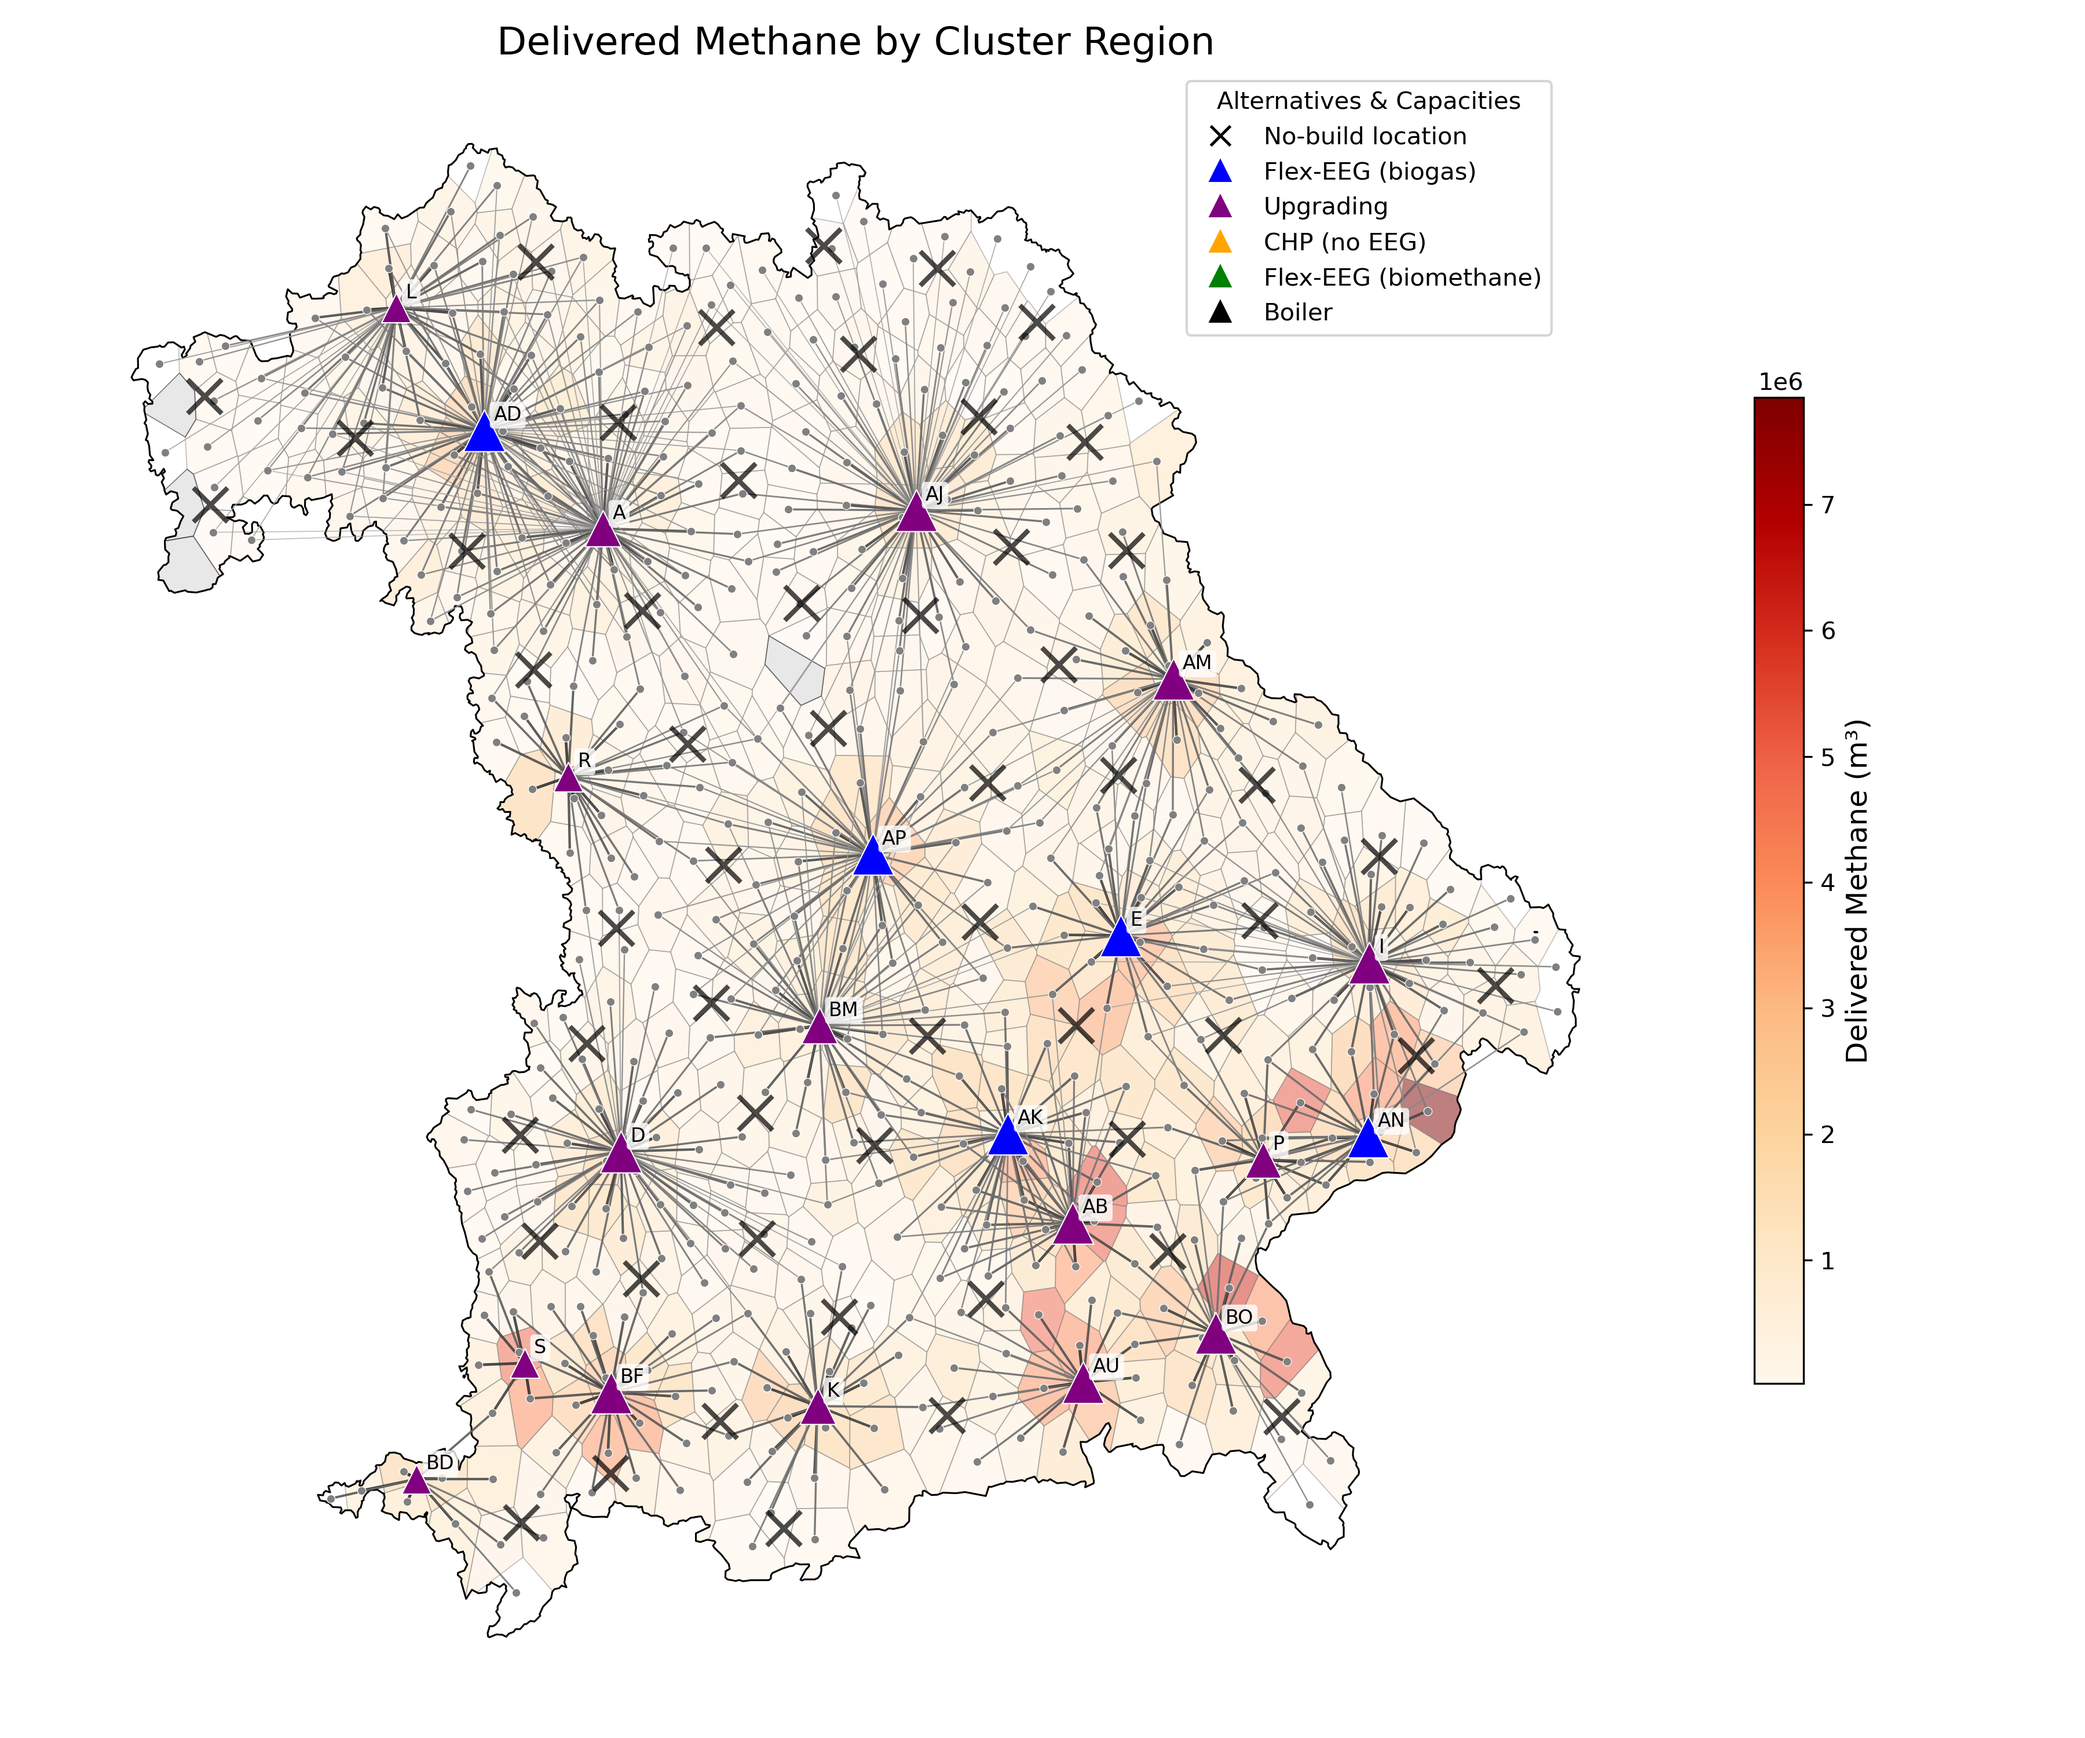
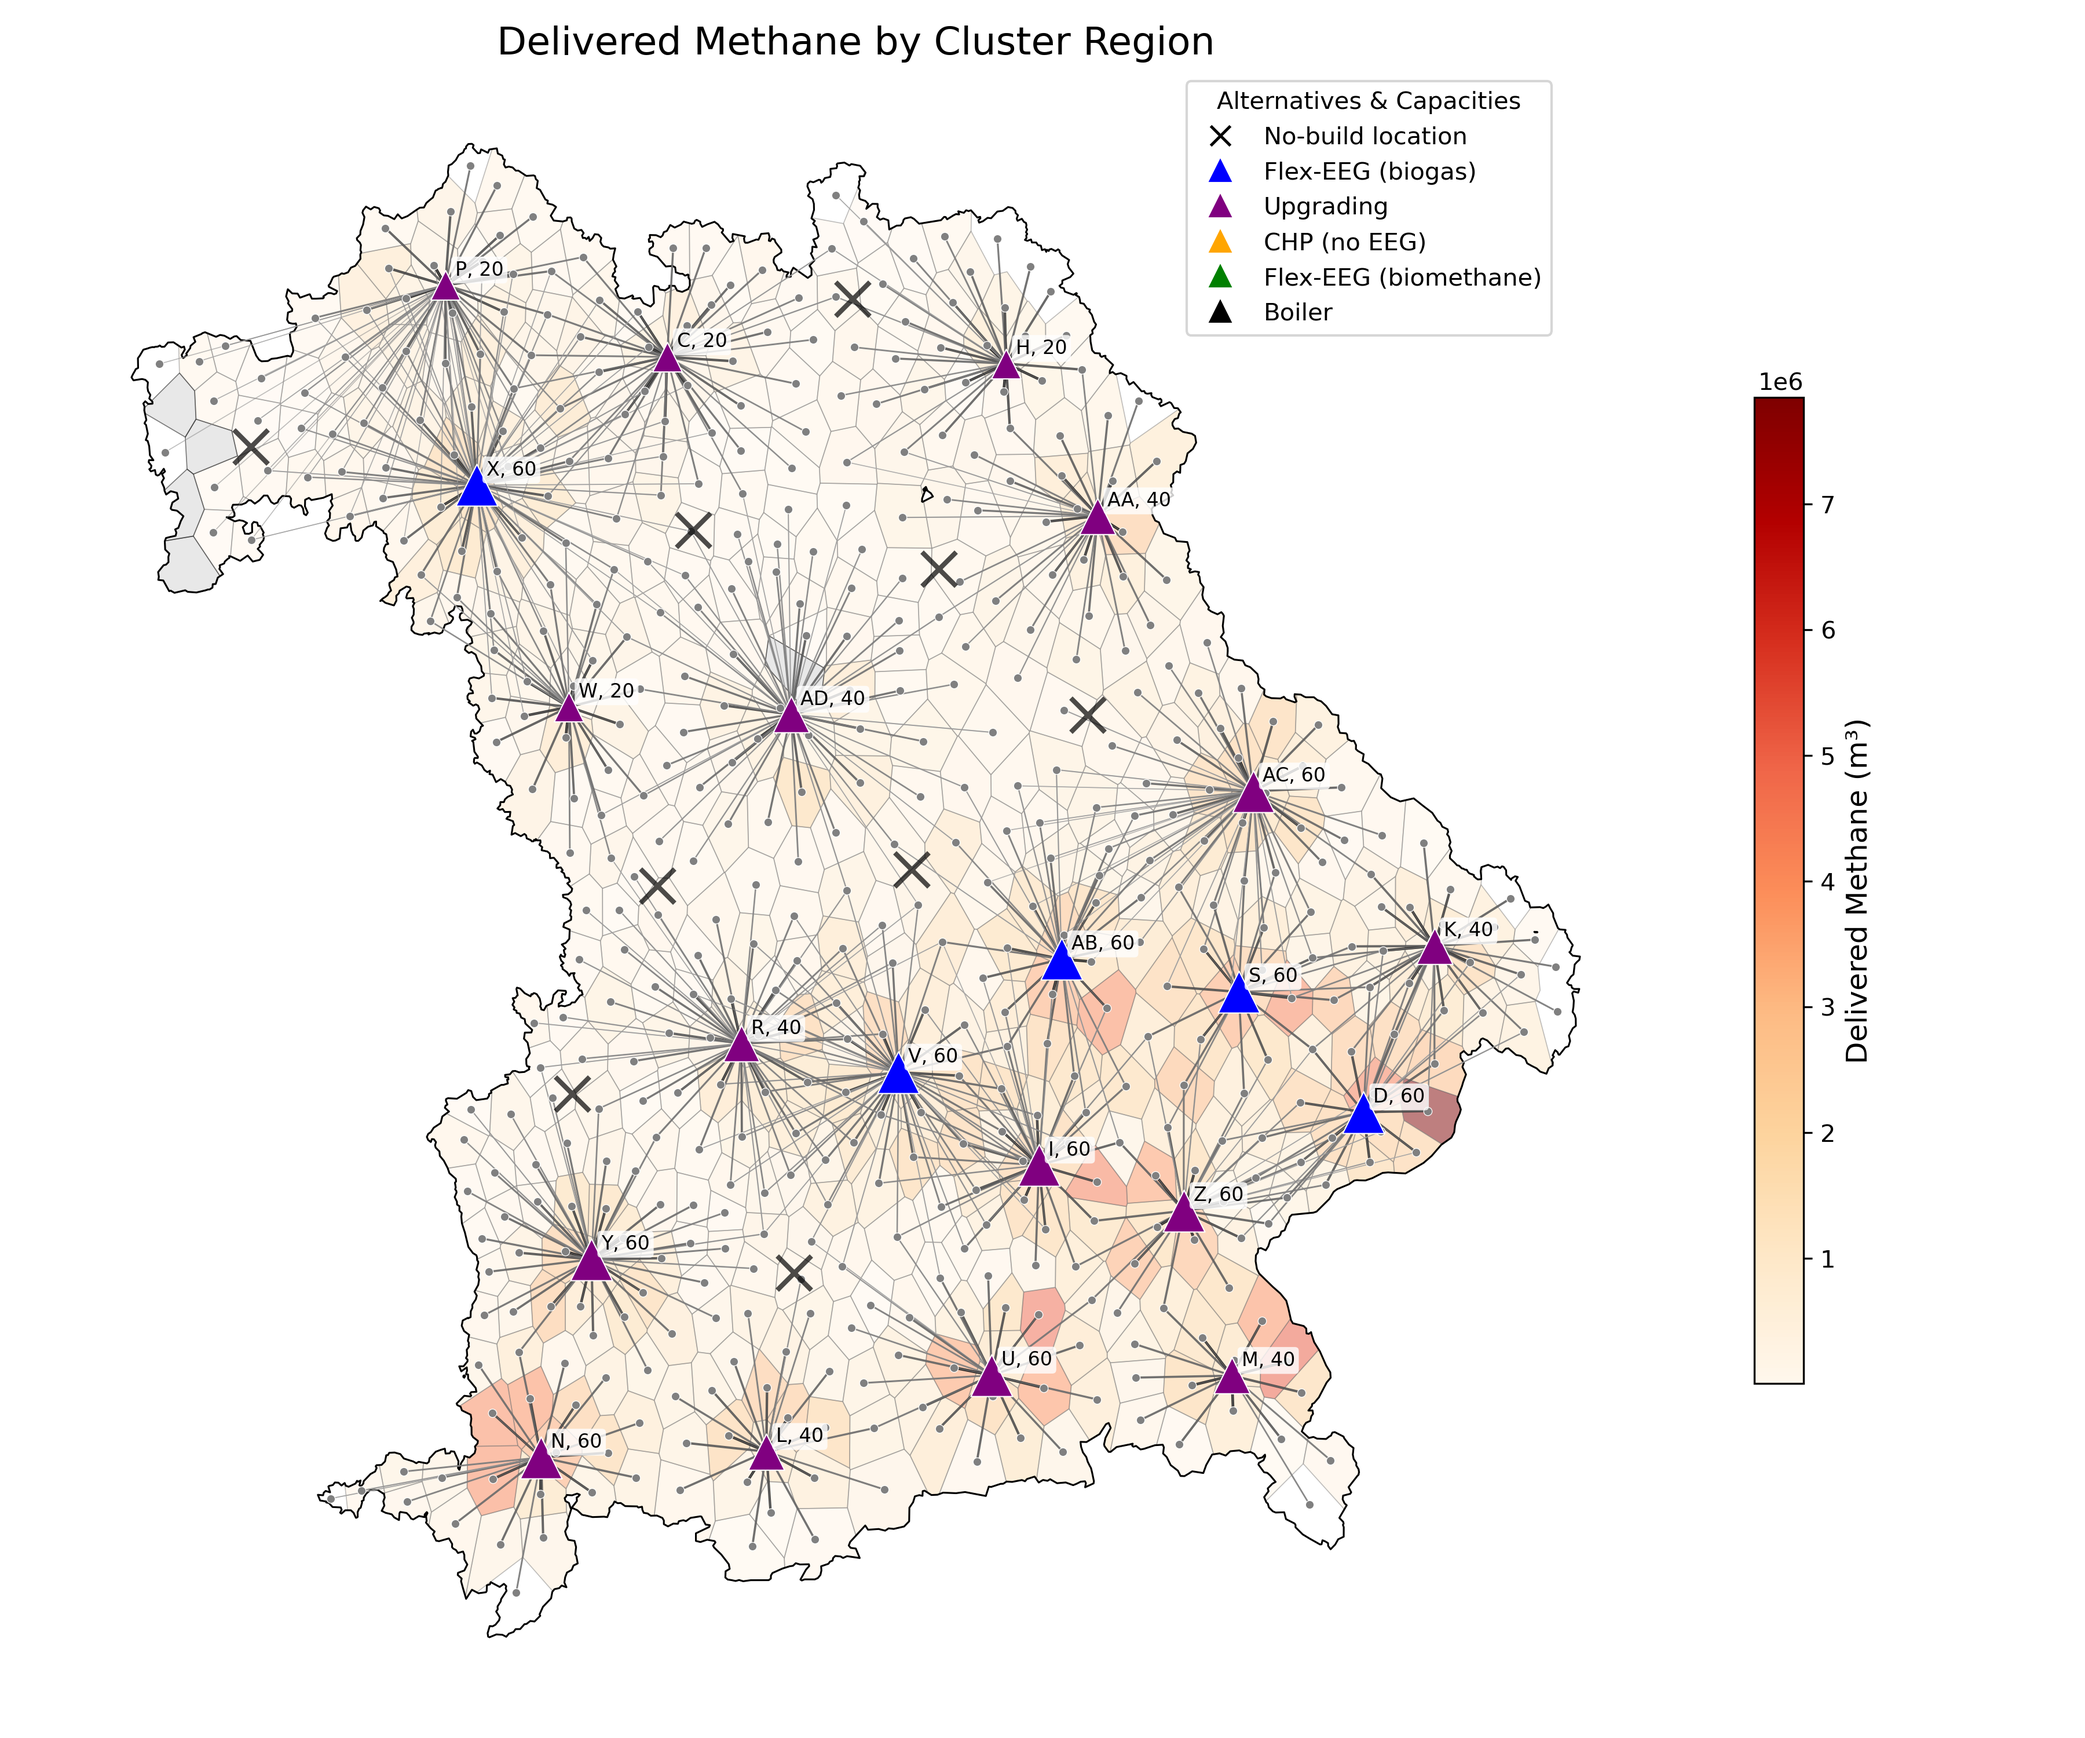
75

Changed region(s): [[0.0933, 0.124, 0.7467, 0.899]]

diff --git a/code/plots.py b/code/plots.py
@@ -14,12 +14,12 @@ import seaborn as sns
 
 BASE_DIR = "C:/Clone/Master/"
 FILES = {
-    "in_flow": os.path.join(BASE_DIR, "results/large_scale/75_runs/Output_in_flow_75_reopt.csv"),
+    "in_flow": os.path.join(BASE_DIR, "results/large_scale/30_runs/Flows_30_optimal.csv"),
     #"out_flow": os.path.join(BASE_DIR, "/Output_out_flow.csv"),
-    "financials": os.path.join(BASE_DIR,"results/large_scale/75_runs/Output_financials_75_reopt.csv"),
+    "financials": os.path.join(BASE_DIR,"results/large_scale/30_runs/Financials_30_optimal.csv"),
     #"feedstock": os.path.join(BASE_DIR, "processed_biomass_data.csv"),
     "feedstock": os.path.join(BASE_DIR, "aggregated_bavaria_supply_nodes.csv"),
-    "plant": os.path.join(BASE_DIR, "equally_spaced_locations_75.csv"),
+    "plant": os.path.join(BASE_DIR, "equally_spaced_locations_30.csv"),
     #"plant": os.path.join(BASE_DIR, "equally_space_locations_10.csv"),
     "yields": os.path.join(BASE_DIR, "Feedstock_yields.csv"),
     "bavaria_geojson": os.path.join(BASE_DIR, "bavaria_cluster_regions.geojson"),
@@ -242,9 +242,9 @@ def plot_methane_fraction(fin_df, system_methane_average):
         deviation = ((frac - system_methane_average) / system_methane_average) * 100
         ax.text(j, frac, f"{deviation:+.1f}%", fontsize=12, ha="center", 
                 va="bottom" if frac < system_methane_average else "top")
-    ax.set_xlabel("Plant Location")
-    ax.set_ylabel("Methane Fraction (N_CH4 / Omega)")
-    ax.set_title("Methane Fraction by Plant Location vs. System Average")
+    ax.set_xlabel("Plant Location", fontsize = 14)
+    ax.set_ylabel("Methane Fraction (N_CH4 / Omega)", fontsize = 14)
+    ax.set_title("Methane Fraction by Plant Location vs. System Average", fontsize = 14)
     ax.legend()
     plt.xticks(rotation=45, ha="right")
     min_frac = min(methane_fractions + [system_methane_average]) * 0.95
@@ -291,12 +291,19 @@ def plot_feedstock_stacked_chart(in_flow_df, feedstock_types, color_map):
                color=c)    # <-- HERE
         bottoms += pivot_df[feedstock].values
 
-    ax.set_xlabel("Plant Location", fontsize =12)
-    ax.set_ylabel("Percentage of Feedstock (%)", fontsize =12)
-    ax.set_title("Feedstock Composition per Plant (100% Stacked)", fontsize =13)
-    ax.legend(title="Feedstock Type", bbox_to_anchor=(1.05, 1), loc="upper left", fontsize =13)
+    ax.set_xlabel("Plant Location", fontsize =20)
+    ax.set_ylabel("Percentage of Feedstock (%)", fontsize =20)
+    ax.set_title("Feedstock Composition per Plant (100% Stacked)", fontsize =24)
+    ax.legend(
+        title="Feedstock Type",
+        title_fontsize=22,           # Ensures title is same as items
+        bbox_to_anchor=(1.02, 1),
+        loc="upper left",
+        fontsize=20                  # Font size of legend entries
+    )
     ax.set_ylim(0, 100)
-    plt.xticks(rotation=45, ha="right")
+    plt.xticks(rotation=45, ha="right", fontsize=18)
+    plt.yticks(fontsize=18)          # <-- Set y-axis tick label font size
     plt.tight_layout()
     plt.savefig(os.path.join(BASE_DIR, "feedstock_stacked_chart.png"))
     plt.show()
@@ -524,7 +531,7 @@ def plot_cluster_heatmap(in_flow_df, yields_df, fin_df,
                 zorder=4
             )
         ax.annotate(
-            str(r.PlantLocation),
+            f"{r.PlantLocation}, {int(r.Capacity // 1_000_000)}",
             xy=(lon, lat), xytext=(4,4),
             textcoords="offset points",
             fontsize=8, zorder=5,
@@ -535,6 +542,8 @@ def plot_cluster_heatmap(in_flow_df, yields_df, fin_df,
                 alpha=0.8
             )
         )
+
+
 
     # -----------------------------------------------------------
     # build legend handles
@@ -850,9 +859,9 @@ def energy_transported(in_flow_df, yields_df, color_map):
 
 #plot_methane_fraction(fin_df, system_methane_average)
 plot_feedstock_stacked_chart(in_flow_df, feedstock_types, color_map)
-plot_cluster_heatmap(in_flow_df, yields_df, fin_df, plant_coords, supply_coords,FILES["bavaria_geojson"], os.path.join(BASE_DIR, "cluster_heatmap.png"))
+#plot_cluster_heatmap(in_flow_df, yields_df, fin_df, plant_coords, supply_coords,FILES["bavaria_geojson"], os.path.join(BASE_DIR, "cluster_heatmap.png"))
 #plot_bavaria_lau_highlight_with_labels(gisco_ids)
 #plot_distance_summary(in_flow_df, supply_coords, plant_coords,output_png="distance_distribution.png")
 #plot_irr_vs_rate(fin_df, interest_rate=0.042, output_png="irr_summary.png")
 #plot_feedstock_costs(yields_df, output_filename="feedstock_cost_plot.png", capacity_dig=27, loading_cost_dig=37, cost_ton_km_dig=0.104)
-energy_transported(in_flow_df, yields_df, color_map)
+#energy_transported(in_flow_df, yields_df, color_map)

diff --git a/code/indicator_new.py b/code/indicator_new.py
@@ -694,7 +694,7 @@ if __name__ == '__main__':
                     "Distance_km": distance
                 })
     in_flow_df = pd.DataFrame(inflow_rows)
-    in_flow_df.to_csv(os.path.join(output_dir, "Output_in_flow_20_opti.csv"), index=False)
+    in_flow_df.to_csv(os.path.join(output_dir, "Output_in_flow_75_opti.csv"), index=False)
     '''
     print("\nDebugging Y[j, a, c].X values:")
     for j in plant_locs:
@@ -803,7 +803,7 @@ if __name__ == '__main__':
 
     fin_df = pd.DataFrame(merged_rows)
     print(f"Saving financials with {len(merged_rows)} rows")
-    fin_df.to_csv(os.path.join(output_dir, "Output_financials_20_opti.csv"), index=False)
+    fin_df.to_csv(os.path.join(output_dir, "Output_financials_75_opti.csv"), index=False)
 
     warmstart_path = os.path.join(output_dir, "warmstart.sol")
     m.write(warmstart_path)
